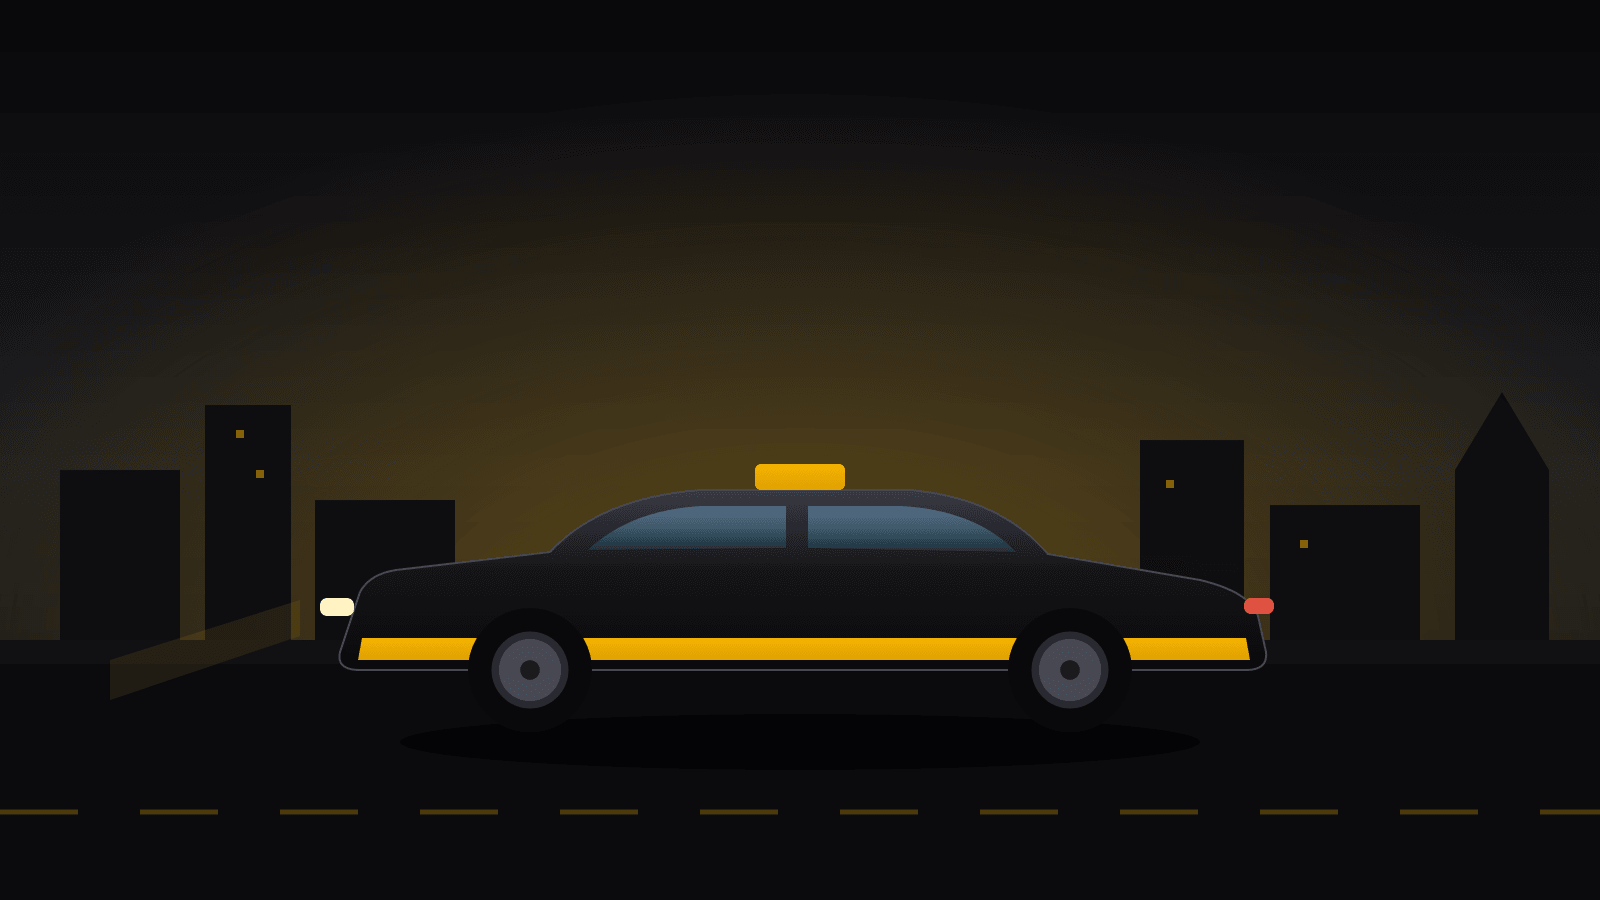
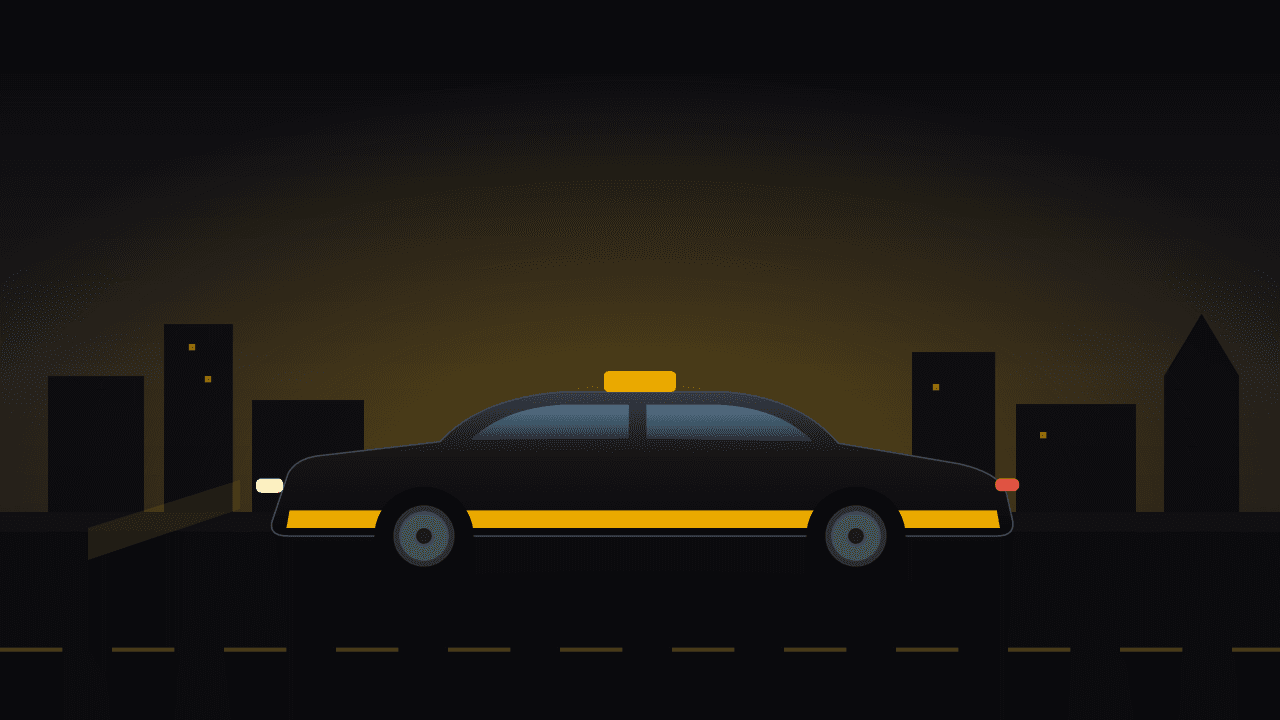
Correct AMB tariffs against source, add vehicle supplement, trim hero LCP
Verified against taxi.amb.cat rather than my placeholder values:
- Eve-of-holiday supplement is 4.60, not the 4.20 I had guessed.
- Sant Joan (23-24 Jun) carries it too and was missing entirely.
- Vehicles seating 5-8 carry a 4.60 supplement that was absent, so the Vito
  and V-Class were under-priced. Quotes now depend on vehicle capacity, and
  checkout prices every vehicle server-side so switching cannot desync the
  displayed and charged amounts. Each vehicle card shows its own total.

Hero LCP: phones now request a quarter-width variant at quality 60. At 40%
opacity behind the headline the loss is invisible. Next 16 coerces qualities
outside images.qualities, so 60 is declared explicitly.

39 tests pass.

diff --git a/src/lib/pricing.test.ts b/src/lib/pricing.test.ts
@@ -98,6 +98,19 @@ describe('specialNightSupplement', () => {
     );
   });
 
+  it('applies on the Sant Joan revetlla', () => {
+    expect(specialNightSupplement(new Date('2026-06-23T23:00:00+02:00'))?.key).toBe(
+      'santJoan',
+    );
+    expect(specialNightSupplement(new Date('2026-06-24T02:00:00+02:00'))?.key).toBe(
+      'santJoan',
+    );
+  });
+
+  it('does not apply on Sant Joan daytime', () => {
+    expect(specialNightSupplement(new Date('2026-06-24T14:00:00+02:00'))).toBeNull();
+  });
+
   it('does not apply on an ordinary night', () => {
     expect(specialNightSupplement(summer('23:00'))).toBeNull();
   });
@@ -290,8 +303,49 @@ describe('calculateQuote — supplements', () => {
 
     expect(q.tariff).toBe('T2');
     expect(q.supplementLines.some((l) => l.key === 'capDAny')).toBe(true);
-    expect(q.supplements).toBe(4.2);
-    expect(q.meterEstimate).toBe(23.6); // 2.80 + 16.60 + 4.20
+    expect(q.supplements).toBe(4.6);
+    expect(q.meterEstimate).toBe(24); // 2.80 + 16.60 + 4.60
+  });
+
+  it('adds the Sant Joan night supplement', () => {
+    const q = calculateQuote({
+      pickup: EIXAMPLE,
+      dropoff: GRACIA,
+      roadKm: 10,
+      durationMin: 18,
+      pickupAt: new Date('2026-06-23T22:00:00+02:00'),
+    });
+
+    expect(q.supplementLines.some((l) => l.key === 'santJoan')).toBe(true);
+    expect(q.supplements).toBe(4.6);
+  });
+
+  it('adds the large-vehicle supplement for 5+ seat vehicles', () => {
+    const base = {
+      pickup: EIXAMPLE,
+      dropoff: GRACIA,
+      roadKm: 10,
+      durationMin: 18,
+      pickupAt: summer('13:00'),
+    };
+
+    const small = calculateQuote({ ...base, vehicleSeats: 4 });
+    const large = calculateQuote({ ...base, vehicleSeats: 6 });
+
+    expect(small.supplementLines.some((l) => l.key === 'largeVehicle')).toBe(false);
+    expect(large.supplementLines.some((l) => l.key === 'largeVehicle')).toBe(true);
+    expect(round(large.meterEstimate - small.meterEstimate)).toBe(4.6);
+  });
+
+  it('omits the large-vehicle supplement when no vehicle is chosen yet', () => {
+    const q = calculateQuote({
+      pickup: EIXAMPLE,
+      dropoff: GRACIA,
+      roadKm: 10,
+      durationMin: 18,
+      pickupAt: summer('13:00'),
+    });
+    expect(q.supplementLines.some((l) => l.key === 'largeVehicle')).toBe(false);
   });
 
   it('caps combined supplements at the per-service maximum', () => {

diff --git a/src/components/checkout-form.tsx b/src/components/checkout-form.tsx
@@ -10,7 +10,8 @@ import { eur } from './quote-widget';
 
 interface Props {
   locale: string;
-  quote: Quote;
+  /** Keyed by vehicle slug — the price changes with vehicle capacity. */
+  quotesByVehicle: Record<string, Quote>;
   pickup: { lat: number; lng: number; label: string };
   dropoff: { lat: number; lng: number; label: string };
   pickupAtIso: string;
@@ -21,7 +22,7 @@ interface Props {
 
 export function CheckoutForm({
   locale,
-  quote,
+  quotesByVehicle,
   pickup,
   dropoff,
   pickupAtIso,
@@ -46,6 +47,8 @@ export function CheckoutForm({
 
   const vehicle = fleet.find((v) => v.slug === vehicleSlug) ?? fleet[0];
   const overCapacity = passengers > vehicle.seats || luggage > vehicle.bags;
+
+  const quote = quotesByVehicle[vehicle.slug] ?? Object.values(quotesByVehicle)[0];
 
   const dueNow = mode === 'FULL_PREPAID' ? quote.payNowFull : quote.payNowFeeOnly;
   const dueInTaxi = mode === 'FULL_PREPAID' ? 0 : quote.payInTaxiFeeOnly;
@@ -176,6 +179,18 @@ export function CheckoutForm({
                         </p>
                         <p className="mt-2 font-mono text-sm">
                           {tf('seats', { count: v.seats })} · {tf('bags', { count: v.bags })}
+                        </p>
+                        {/* Larger vehicles carry an official supplement, so the
+                            total differs per vehicle and must be visible here. */}
+                        <p className="mt-2 font-mono text-sm font-bold">
+                          {eur(
+                            mode === 'FULL_PREPAID'
+                              ? (quotesByVehicle[v.slug]?.payNowFull ?? 0)
+                              : (quotesByVehicle[v.slug]?.payNowFeeOnly ?? 0),
+                          )}{' '}
+                          <span className="font-sans text-xs font-normal text-muted">
+                            {tq('payNow').toLowerCase()}
+                          </span>
                         </p>
                       </div>
                     </label>

diff --git a/src/lib/pricing.ts b/src/lib/pricing.ts
@@ -3,6 +3,7 @@ import {
   BARCELONA_HOLIDAYS,
   LANDMARKS,
   SPECIAL_NIGHTS,
+  SPECIAL_NIGHT_EVES,
   TARIFFS,
   type PaymentMode,
   type TariffCode,
@@ -26,6 +27,11 @@ export interface QuoteInput {
   durationMin: number;
   /** Absolute pickup instant. Tariff is derived from this in Barcelona time. */
   pickupAt: Date;
+  /**
+   * Seats in the chosen vehicle. Vehicles carrying 5-8 passengers attract an
+   * official AMB supplement, so the quote changes with vehicle choice.
+   */
+  vehicleSeats?: number;
 }
 
 export interface SupplementLine {
@@ -140,8 +146,8 @@ export function specialNightSupplement(
   const key = (SPECIAL_NIGHTS as Record<string, string | undefined>)[mmdd];
   if (!key) return null;
 
-  // 24 Dec / 31 Dec qualify only from 20:00; 25 Dec / 1 Jan only before 06:00.
-  const isEve = mmdd === '12-24' || mmdd === '12-31';
+  // Eves qualify only from 20:00; the following mornings only before 06:00.
+  const isEve = SPECIAL_NIGHT_EVES.has(mmdd);
   if (isEve && hour < 20) return null;
   if (!isEve && hour >= 6) return null;
 
@@ -190,7 +196,7 @@ export function amountDueInTaxi(quote: Quote, mode: PaymentMode): number {
  * apply to both; only the per-km rate differs.
  */
 export function calculateQuote(input: QuoteInput): Quote {
-  const { pickup, dropoff, roadKm, durationMin, pickupAt } = input;
+  const { pickup, dropoff, roadKm, durationMin, pickupAt, vehicleSeats } = input;
 
   const pickupAirport = isAirport(pickup);
   const dropoffAirport = isAirport(dropoff);
@@ -249,6 +255,13 @@ export function calculateQuote(input: QuoteInput): Quote {
 
   const special = specialNightSupplement(pickupAt);
   if (special) lines.push({ key: special.key, amount: special.amount });
+
+  if (vehicleSeats && vehicleSeats >= TARIFFS.largeVehicleMinSeats) {
+    lines.push({
+      key: 'largeVehicle',
+      amount: TARIFFS.supplements.largeVehicle,
+    });
+  }
 
   const rawSupplements = lines.reduce((sum, l) => sum + l.amount, 0);
   const supplements = round2(

diff --git a/src/lib/tariffs.ts b/src/lib/tariffs.ts
@@ -41,18 +41,25 @@ export const TARIFFS = {
     mollAdossat: 4.6,
     sants: 2.55,
     firaGranVia: 3.3,
+    /** Vehicles carrying 5 to 8 passengers — our Vito and V-Class. */
+    largeVehicle: 4.6,
     maxPerService: 17.1,
   },
 
+  /** Seat count at or above which `largeVehicle` applies. */
+  largeVehicleMinSeats: 5,
+
   /**
-   * Special-night supplements, applied on top of the T-2 tariff.
-   * VERIFY at taxi.amb.cat — these change with the yearly tariff order.
+   * Eve-of-holiday supplement, verified against taxi.amb.cat (2026 tariff).
+   * Applies on the nights of 24-25 Dec, 31 Dec-1 Jan and 23-24 Jun.
    */
   specialNights: {
     /** Nit de Nadal — Christmas Eve night into Christmas morning. */
-    nitDeNadal: 4.2,
+    nitDeNadal: 4.6,
     /** Nit de Cap d'Any — New Year's Eve night into New Year's Day. */
-    capDAny: 4.2,
+    capDAny: 4.6,
+    /** Revetlla de Sant Joan — 23 June night into 24 June. */
+    santJoan: 4.6,
   },
 
   /** Any trip originating at El Prat bills at least this much. */
@@ -147,7 +154,12 @@ export const SPECIAL_NIGHTS = {
   '12-25': 'nitDeNadal', // 00:00-06:00 on Christmas morning
   '12-31': 'capDAny',
   '01-01': 'capDAny', // 00:00-06:00 on New Year's Day
+  '06-23': 'santJoan',
+  '06-24': 'santJoan', // 00:00-06:00 on Sant Joan morning
 } as const satisfies Record<string, keyof typeof TARIFFS.specialNights>;
+
+/** Dates whose supplement starts at 20:00 rather than ending at 06:00. */
+export const SPECIAL_NIGHT_EVES = new Set(['12-24', '12-31', '06-23']);
 
 /** Known fixed points used for supplement detection. */
 export const LANDMARKS = {

diff --git a/src/app/[locale]/checkout/page.tsx b/src/app/[locale]/checkout/page.tsx
@@ -139,20 +139,29 @@ export default async function CheckoutPage(props: {
     );
   }
 
-  const quote = calculateQuote({
-    pickup,
-    dropoff,
-    roadKm: route.roadKm,
-    durationMin: route.durationMin,
-    pickupAt,
-  });
+  // One quote per vehicle: 5-8 seat vehicles carry an AMB supplement, so
+  // switching vehicle changes the price. Priced here rather than in the
+  // browser so the figure shown always matches the figure charged.
+  const quotesByVehicle = Object.fromEntries(
+    FLEET.map((v) => [
+      v.slug,
+      calculateQuote({
+        pickup,
+        dropoff,
+        roadKm: route.roadKm,
+        durationMin: route.durationMin,
+        pickupAt,
+        vehicleSeats: v.seats,
+      }),
+    ]),
+  );
 
   return (
     <>
       <PageHero title={t('h1')} />
       <CheckoutForm
         locale={locale}
-        quote={quote}
+        quotesByVehicle={quotesByVehicle}
         pickup={{ ...pickup, label: plabel }}
         dropoff={{ ...dropoff, label: dlabel }}
         pickupAtIso={pickupAt.toISOString()}

diff --git a/src/app/api/bookings/route.ts b/src/app/api/bookings/route.ts
@@ -113,20 +113,23 @@ export async function POST(request: Request) {
     return NextResponse.json({ error: 'routing_unavailable' }, { status: 502 });
   }
 
+  // Vehicle first: 5-8 seat vehicles carry an official supplement, so the
+  // quote depends on which one was chosen.
+  const vehicle = input.vehicleSlug
+    ? await prisma.vehicle.findUnique({ where: { slug: input.vehicleSlug } })
+    : null;
+
   const quote = calculateQuote({
     pickup: input.pickup,
     dropoff: input.dropoff,
     roadKm: route.roadKm,
     durationMin: route.durationMin,
     pickupAt,
+    vehicleSeats: vehicle?.seats,
   });
 
   const amountOnline = amountDueOnline(quote, input.paymentMode);
   const amountInTaxi = amountDueInTaxi(quote, input.paymentMode);
-
-  const vehicle = input.vehicleSlug
-    ? await prisma.vehicle.findUnique({ where: { slug: input.vehicleSlug } })
-    : null;
 
   const reference = makeReference();
 

diff --git a/src/app/[locale]/page.tsx b/src/app/[locale]/page.tsx
@@ -36,12 +36,17 @@ export default async function HomePage(props: {
 
       {/* Hero */}
       <section className="relative overflow-hidden bg-ink">
+        {/* Decorative backdrop at 40% opacity behind the headline. On phones we
+            deliberately request a quarter-width variant: upscaled it is
+            indistinguishable at this opacity, and it keeps the LCP payload tiny. */}
         <Image
           src="/img/hero-banner.png"
-          alt="Black and yellow Barcelona taxi arriving at El Prat airport at dusk"
+          alt="Black and yellow Barcelona airport taxi at El Prat terminal at dusk"
           fill
           priority
-          sizes="100vw"
+          fetchPriority="high"
+          quality={60}
+          sizes="(max-width: 768px) 25vw, 100vw"
           className="object-cover opacity-40"
         />
         <div

diff --git a/scripts/make-fleet-art.ts b/scripts/make-fleet-art.ts
@@ -287,7 +287,13 @@ async function main() {
     console.log(`wrote public/img/${file} (${(png.length / 1024).toFixed(0)} KB)`);
   }
 
-  const hero = await sharp(Buffer.from(heroSvg())).png({ quality: 90 }).toBuffer();
+  // The hero renders at 40% opacity behind the headline, so it is effectively
+  // a dark backdrop. Palette quantisation costs nothing visible there and cuts
+  // the LCP payload by roughly 5x.
+  const hero = await sharp(Buffer.from(heroSvg()))
+    .resize(1280, 720)
+    .png({ palette: true, quality: 70, compressionLevel: 9, effort: 10 })
+    .toBuffer();
   await writeFile(path.join(OUT, 'hero-banner.png'), hero);
   console.log(`wrote public/img/hero-banner.png (${(hero.length / 1024).toFixed(0)} KB)`);
 }

diff --git a/next.config.ts b/next.config.ts
@@ -8,6 +8,10 @@ const nextConfig: NextConfig = {
     // All imagery is generated at build time and served locally, so no remote
     // patterns are needed. AVIF first keeps the hero within the LCP budget.
     formats: ['image/avif', 'image/webp'],
+    // Next 16 restricts qualities to [75] by default and silently coerces
+    // anything else to the nearest allowed value. 60 is for the hero backdrop,
+    // which sits at 40% opacity where the loss is invisible.
+    qualities: [60, 75],
   },
   async headers() {
     return [
